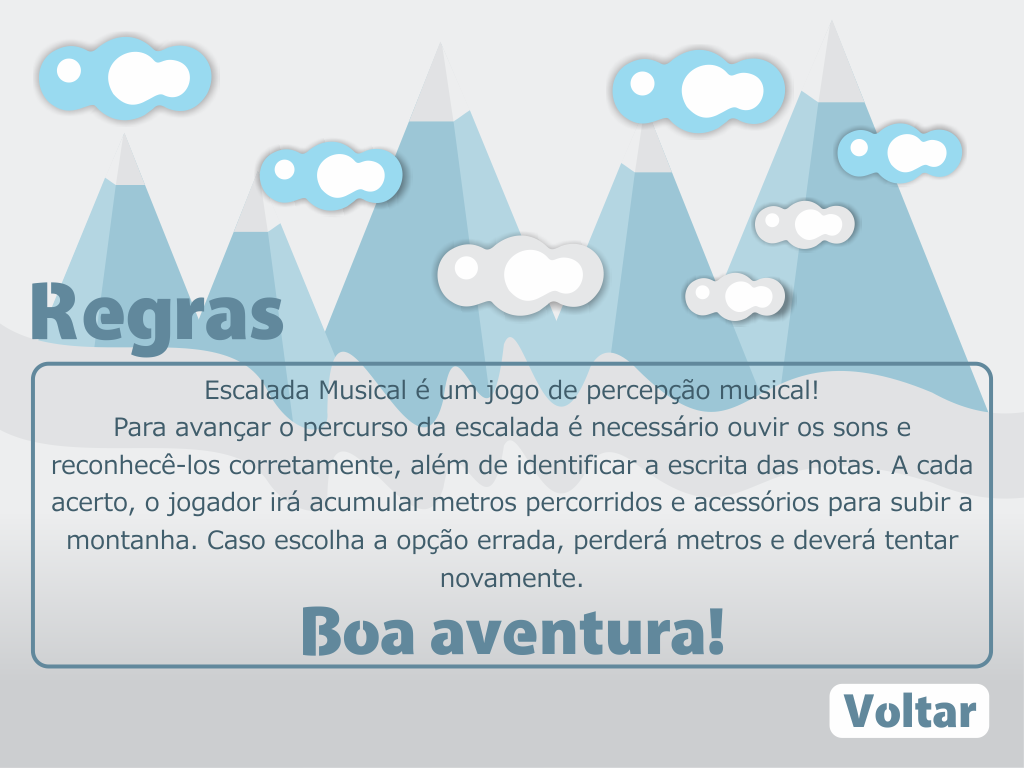
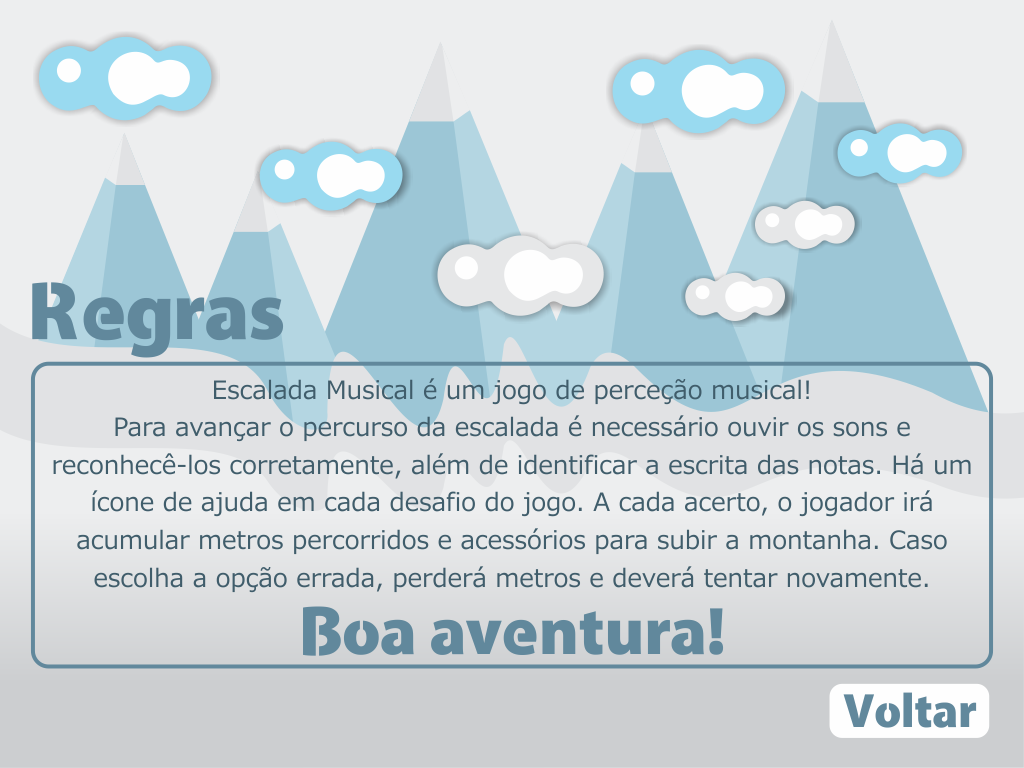
some changes to level 1

Changed region(s): [[0.0625, 0.5938, 0.9688, 0.7812], [0.1875, 0.5, 0.8125, 0.5625]]

diff --git a/index.html b/index.html
@@ -79,10 +79,12 @@
                 {id: "background", src: "assets/images/background.png"},
                 {id: "start_menu_background", src: "assets/images/start_menu_background.png"},
                 {id: "selection_level_background", src: "assets/images/selection_level_background.png"},
-                {id: "pass_button", src: "assets/images/pass_button.png"},
+                {id: "skip_button", src: "assets/images/skip_button.png"},
+                {id: "back_button", src: "assets/images/back_button.png"},
                 {id: "question_mark_right", src: "assets/images/question_mark_right_bubble.png"},
                 {id: "question_mark_left", src: "assets/images/question_mark_left_bubble.png"},
                 {id: "wrror", src: "assets/images/error.png"},
+                {id: "hint", src: "assets/images/hint.png"},
                 {id: "credits", src: "assets/images/credits.png"},
                 {id: "rules", src: "assets/images/rules.png"},
                 //LEVEL 1 ITEMS
@@ -128,6 +130,12 @@
                     else if(stage.name == "secondlevel3") {
                         playSound(target.name);
                     }
+                    else if(stage.name == "firstlevel2" && target.parent.name == "hintButton"){
+                        stage.getChildByName("firstLevel2Info").visible = true;
+                    }
+                    else if(stage.name == "firstlevel3" && target.parent.name == "hintButton"){
+                        stage.getChildByName("firstLevel3Info").visible = true;
+                    }
                     break;
                 case "click":
                         if(target.name == "startButton") {
@@ -135,6 +143,9 @@
                         }
                         else if(target.name == "firstLevel" && stage.name == "selectionLevel"){
                             firstLevelIntro();
+                        }
+                        else if(target.parent.name == "backButton" && stage.name == "selectionLevel"){
+                            startMenuLevel();
                         }
                         else if(target.parent.name == "skipButton" && stage.name == "firstlevelintro"){
                             firstLevel1();
@@ -152,15 +163,20 @@
                             startMenuLevel();
                         }
                         else if(target.parent.name == "skipButton" && stage.name == "firstlevel1"){
-                            meterCounter += 100;
+                            if(meterCounter == 0)
+                                meterCounter += 100;
                             firstLevel2();
                         }
                         else if(target.parent.name == "skipButton" && stage.name == "secondlevel1"){
-                            meterCounter += 100;
+                            if(meterCounter == 0)
+                                meterCounter += 100;
                             secondLevel2();
                         }
                         else if(target.parent.name == "skipButton" && stage.name == "firstlevel2"){
                             firstLevel3();
+                        }
+                        else if(target.parent.name == "backButton" && stage.name == "firstlevel2"){
+                            firstLevel1();
                         }
                         else if(target.parent.name == "skipButton" && stage.name == "secondlevel2"){
                             secondLevel3();
@@ -174,7 +190,6 @@
                                     if(fibonacci == 2 && meterCounter > 100){
                                         meterCounter = 500;
                                         fibonacci = 3;
-                                        stage.getChildByName("cSharpBird").getChildByName("leftBubbleSpeech").image = preload.getResult("csharp_bubble");
                                     }
                                     else{
                                         meterCounter -= 50;
@@ -207,10 +222,9 @@
                                     if(fibonacci == 1){
                                         meterCounter += 200;
                                         fibonacci = 2;
-                                        stage.getChildByName("rightBubbleSpeech").image = preload.getResult("c_bubble");
-                                        stage.getChildByName("cSharpBird").visible = true;
                                     }
                                     else{
+                                        meterCounter -= 50;
                                         if(meterCounter == 0)
                                             firstLevel1();
                                     }
@@ -300,6 +314,9 @@
                                         secondLevel1();
                                     break;
                             }
+                        }
+                        else if(target.parent.name == "backButton" && stage.name == "firstlevel3"){
+                            firstLevel2();
                         }
                         else if(stage.name == "firstlevel3" && fibonacci < 3){
                             switch(target.name){
@@ -395,6 +412,12 @@
                         }
                     break;
                 case "mouseout":
+                    if(stage.name == "firstlevel2" && target.parent.name == "hintButton" && stage.getChildByName("firstLevel2Info").image != preload.getResult("level1_phase2_win")){
+                        stage.getChildByName("firstLevel2Info").visible = false;
+                    }
+                    else if(stage.name == "firstlevel3" && target.parent.name == "hintButton" && stage.getChildByName("firstLevel3Info").image != preload.getResult("level1_phase3_win")){
+                        stage.getChildByName("firstLevel3Info").visible = false;
+                    }
                     break;
                 default:
                     break;
@@ -434,14 +457,18 @@
                         stage.getChildByName("rightBubbleSpeech").image = preload.getResult("c_bubble");
                         stage.getChildByName("cSharpBird").visible = true;
                     }
-                    else if(meterCounter == 500 && fibonacci == 3 && !stage.getChildByName("skipButton")){
+                    else if((meterCounter >= 500 || fibonacci == 3) && !stage.getChildByName("skipButton")){
                         stage.getChildByName("firstLevel2Info").image = preload.getResult("level1_phase2_win");
+                        stage.getChildByName("rightBubbleSpeech").image = preload.getResult("c_bubble");
+                        stage.getChildByName("cSharpBird").visible = true;
+                        stage.getChildByName("cSharpBird").getChildByName("leftBubbleSpeech").image = preload.getResult("csharp_bubble");
+                        stage.getChildByName("firstLevel2Info").visible = true;
                         addSkipButton();
                     }
                     break;
                 case "firstlevel3":
                     if(meterCounter <= 300){
-                        stage.getChildByName("firstLevel3Info").image = preload.getResult("wrror");
+                        stage.getChildByName("firstLevel3Info").image = preload.getResult("error");
                         if(_startTime == null){
                             _startTime = (new Date()).getTime();
                         }
@@ -451,8 +478,9 @@
                             fibonacci = 2;
                         }
                     }
-                    else if(meterCounter == 940 && fibonacci == 3 && !stage.getChildByName("skipButton")){
+                    else if((meterCounter == 940 || fibonacci == 3) && !stage.getChildByName("skipButton")){
                         stage.getChildByName("firstLevel3Info").image = preload.getResult("level1_phase3_win");
+                        stage.getChildByName("firstLevel3Info").visible = true;
                         addSkipButton();
                     }
                     break;
@@ -618,27 +646,56 @@
         }
 
         function addSkipButton() {
-            var skipBtnBg = new createjs.Shape();
-            skipBtnBg.name = "skipButtonBackground";
-            skipBtnBg.graphics.beginFill("red").drawRoundRect(0, 0, 256, 87, 20);
-            skipBtnBg.alpha = 0.01;
-
-            var skipBtnImage = new createjs.Bitmap(preload.getResult("pass_button"));
+            var skipBtnImage = new createjs.Bitmap(preload.getResult("skip_button"));
             skipBtnImage.name = "skipButtonImage";
             skipBtnImage.x = 740;
             skipBtnImage.y = 650;
 
             var skipBtn = new createjs.Container();
             skipBtn.name = "skipButton";
-            skipBtn.x = 740;
-            skipBtn.y = 650;
-            skipBtn.addChild(skipBtnBg);
+            skipBtn.addChild(skipBtnImage);
 
             skipBtn.on("click", handleMouseEvent);
 
             skipBtn.cursor = "pointer";
 
-            stage.addChild(skipBtn, skipBtnImage);
+            stage.addChild(skipBtn);
+        }
+
+        function addHintButton() {
+            var hintBtnImage = new createjs.Bitmap(preload.getResult("hint"));
+            hintBtnImage.name = "hintButtonImage";
+            hintBtnImage.scaleX = hintBtnImage.scaleY = 0.1;
+
+            var hintBtn = new createjs.Container();
+            hintBtn.name = "hintButton";
+            hintBtn.x = 625;
+            hintBtn.y = 640;
+            hintBtn.addChild(hintBtnImage);
+
+            hintBtn.on("mouseover", handleMouseEvent);
+            hintBtn.on("mouseout", handleMouseEvent);
+
+            hintBtn.cursor = "pointer";
+
+            stage.addChild(hintBtn);
+        }
+
+        function addBackButton(x, y) {
+            var backBtnImage = new createjs.Bitmap(preload.getResult("back_button"));
+            backBtnImage.name = "backButtonImage";
+
+            var backBtn = new createjs.Container();
+            backBtn.name = "backButton";
+            backBtn.x = x;
+            backBtn.y = y;
+            backBtn.addChild(backBtnImage);
+
+            backBtn.on("click", handleMouseEvent);
+
+            backBtn.cursor = "pointer";
+
+            stage.addChild(backBtn);
         }
 
         function firstLevelIntro(){
@@ -785,6 +842,7 @@
             firstLevel2Info.x = 110;
             firstLevel2Info.y = 100;
             firstLevel2Info.alpha = 0.9;
+            firstLevel2Info.visible = false;
             stage.addChild(firstLevel2Info);
 
             var rightBubbleSpeech = new createjs.Bitmap(preload.getResult("question_mark_right"));
@@ -817,6 +875,9 @@
             cSharpBird.addChild(blueBird, leftBubbleSpeech);
             cSharpBird.visible = false;
             stage.addChild(cSharpBird);
+
+            addBackButton(26, 650);
+            addHintButton();
 
             stage.update();
         }
@@ -963,9 +1024,13 @@
             firstLevel3Info.x = 110;
             firstLevel3Info.y = 100;
             firstLevel3Info.alpha = 0.9;
+            firstLevel3Info.visible = false;
             stage.addChild(firstLevel3Info);
 
             addHousesButtons();
+
+            addBackButton(26, 650);
+            addHintButton();
 
             stage.update();
         }
@@ -1504,6 +1569,8 @@
                 stage.addChild(secondLevel);
             }
 
+            addBackButton(740, 650);
+
             stage.update();
         }
         function clearStage(){
@@ -1524,7 +1591,8 @@
             if(trackSound != null){
                 kidSound.stop();
             }
-            fibonacci = 1;
+            if(fibonacci == 3)
+                fibonacci = 1;
         }
     </script>
 </head>
